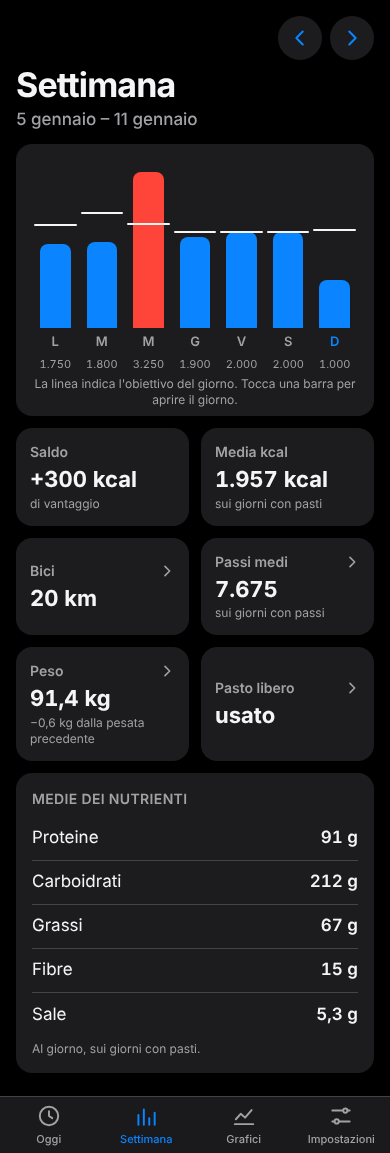
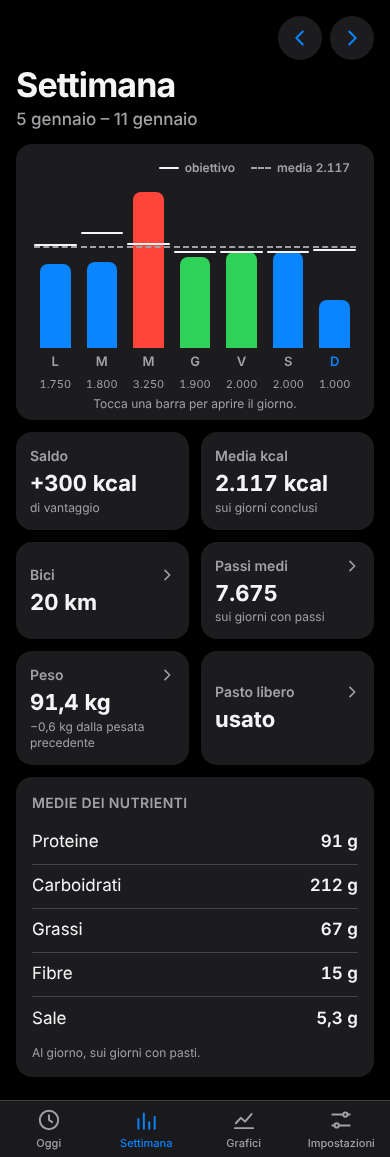
T5b.7 segno della variazione di peso (in attesa di revisione)
Claude-Session: https://claude.ai/code/session_01Q1wTxDLrvVU4hsBJyp9sCk

diff --git a/src/app/lib/week-weight.test.ts b/src/app/lib/week-weight.test.ts
@@ -1,5 +1,6 @@
 import { describe, expect, it } from "vitest";
-import { weekWeight } from "./week-weight";
+import { formatNumber, formatWeightDelta } from "./format";
+import { weekWeight, weightCard } from "./week-weight";
 
 const MON = "2026-01-05";
 const SUN = "2026-01-11";
@@ -71,5 +72,32 @@ describe("weekWeight", () => {
       expect(run([w("2026-01-06", 83)], { profileWeightKg: 86, targetWeightKg: 85 })?.tone).toBe("bad"); // da 1 a 2
       expect(run([w("2026-01-06", 84)], { profileWeightKg: 86, targetWeightKg: 85 })?.tone).toBe("neutral"); // da 1 a 1
     });
+  });
+});
+
+describe("scheda Peso: testo e colore della variazione (T5b.7)", () => {
+  const card = (kg: number, o: { profileWeightKg?: number; targetWeightKg?: number } = {}) =>
+    weightCard(run([w("2026-01-06", kg)], { profileWeightKg: 92, ...o }), (n) => formatNumber(n, 1), formatWeightDelta);
+
+  it("−0,04 → «0,0 kg», in grigio", () => {
+    expect(card(91.96, { targetWeightKg: 85 })).toMatchObject({ hint: "0,0 kg dal peso di partenza", tone: "neutral" });
+  });
+  it("−0,4, −1,2 e +0,3: sempre segno e un decimale", () => {
+    expect(card(91.6).hint).toBe("−0,4 kg dal peso di partenza");
+    expect(card(90.8).hint).toBe("−1,2 kg dal peso di partenza");
+    expect(card(92.3).hint).toBe("+0,3 kg dal peso di partenza");
+  });
+  it("con una pesata precedente il testo lo dice", () => {
+    const r = weightCard(run([w("2026-01-02", 93), w("2026-01-06", 92.6)]), (n) => formatNumber(n, 1), formatWeightDelta);
+    expect(r.hint).toBe("−0,4 kg dalla pesata precedente");
+  });
+  it("obiettivo più alto del peso attuale: la variazione positiva è verde, quella negativa rossa", () => {
+    expect(card(92.3, { targetWeightKg: 100 })).toMatchObject({ hint: "+0,3 kg dal peso di partenza", tone: "ok" });
+    expect(card(91.6, { targetWeightKg: 100 })).toMatchObject({ hint: "−0,4 kg dal peso di partenza", tone: "bad" });
+  });
+  it("obiettivo più basso: scendere verde, salire rosso; senza obiettivo grigio", () => {
+    expect(card(91.6, { targetWeightKg: 85 }).tone).toBe("ok");
+    expect(card(92.3, { targetWeightKg: 85 }).tone).toBe("bad");
+    expect(card(91.6).tone).toBe("neutral");
   });
 });

diff --git a/src/app/settimana-screen.tsx b/src/app/settimana-screen.tsx
@@ -9,7 +9,7 @@ import { Card } from "./components/card";
 import { ActivityWeekPanel, FreeMealPanel, WeightPanel } from "./components/week-panels";
 import { useDataStore } from "./data-provider";
 import { WeekChart } from "./components/week-chart";
-import { formatDayMonth, formatNumber, formatSigned } from "./lib/format";
+import { formatDayMonth, formatNumber, formatSigned, formatWeightDelta } from "./lib/format";
 import { useToday } from "./lib/use-today";
 import { useWeekData } from "./lib/use-week-data";
 import { buildWeekView } from "./lib/week-view";
@@ -80,7 +80,7 @@ export function SettimanaScreen() {
   const view = data ? buildWeekView({ date: monday, days: data.days, settings: data.settings, today }) : null;
   const s = view?.summary;
   const weight = data ? weekWeight({ monday, sunday, weighIns: data.weighIns, profileWeightKg: data.userSettings.weightKg, targetWeightKg: data.userSettings.targetWeightKg }) : null;
-  const card = weightCard(weight, (kg) => formatNumber(kg, 1), (kg) => formatSigned(kg, 1));
+  const card = weightCard(weight, (kg) => formatNumber(kg, 1), formatWeightDelta);
   const stats: StatProps[] = s
     ? [
         { label: "Saldo", value: s.balance === null ? dash : `${formatSigned(s.balance)} kcal`, hint: s.balance === null ? undefined : s.balance < 0 ? "da recuperare" : "di vantaggio" },

diff --git a/src/app/lib/format.test.ts b/src/app/lib/format.test.ts
@@ -1,5 +1,5 @@
 import { describe, expect, it } from "vitest";
-import { formatDateLong, formatDayMonth, formatNumber, formatSigned, formatWeekday } from "./format";
+import { formatDateLong, formatDayMonth, formatNumber, formatSigned, formatWeekday, formatWeightDelta } from "./format";
 
 describe("formatNumber", () => {
   it("separatore delle migliaia anche a 4 cifre e virgola decimale", () => {
@@ -32,5 +32,21 @@ describe("date", () => {
     expect(formatDayMonth("2026-01-08")).toBe("8 gennaio");
     expect(formatDateLong("2026-01-08")).toBe("Giovedì 8 gennaio");
     expect(formatDateLong("2026-03-01")).toBe("Domenica 1 marzo");
+  });
+});
+
+describe("formatWeightDelta (T5b.7)", () => {
+  it("sempre segno e un decimale, con il meno tipografico", () => {
+    expect(formatWeightDelta(-0.4)).toBe("−0,4");
+    expect(formatWeightDelta(-1.2)).toBe("−1,2");
+    expect(formatWeightDelta(0.3)).toBe("+0,3");
+    expect(formatWeightDelta(12)).toBe("+12,0");
+    expect(formatWeightDelta(-1234.5)).toBe("−1.234,5");
+  });
+  it("una differenza che arrotondata vale 0,0 si scrive «0,0», senza segno", () => {
+    expect(formatWeightDelta(0)).toBe("0,0");
+    expect(formatWeightDelta(-0.04)).toBe("0,0");
+    expect(formatWeightDelta(0.04)).toBe("0,0");
+    expect(formatWeightDelta(-0.05)).toBe("−0,1");
   });
 });

diff --git a/src/app/lib/format.ts b/src/app/lib/format.ts
@@ -25,6 +25,14 @@ export function formatSigned(n: number, decimals = 0): string {
   return n < 0 ? `−${text}` : `+${text}`;
 }
 
+/** Variazione di peso in kg: sempre il segno e un decimale, col meno tipografico ("−0,4", "+0,3"). Una differenza che arrotondata vale 0,0 si scrive "0,0". */
+export function formatWeightDelta(kg: number): string {
+  // Sempre un decimale (anche "12,0"), con il punto delle migliaia.
+  const text = new Intl.NumberFormat("it-IT", { useGrouping: "always", minimumFractionDigits: 1, maximumFractionDigits: 1 }).format(Math.abs(kg));
+  if (Number(text.replace(/\./g, "").replace(",", ".")) === 0) return "0,0";
+  return kg < 0 ? `−${text}` : `+${text}`;
+}
+
 function utcDate(date: DateKey): Date {
   const [y, m, d] = date.split("-").map(Number);
   return new Date(Date.UTC(y, m - 1, d));

diff --git a/docs/DIARIO.md b/docs/DIARIO.md
@@ -63,6 +63,7 @@ Una riga per task chiuso.
 - T5b.4 · fatto · `src/engine/coherence.ts` (`kcalFromMacros`, `needsKcalCheck`, costanti `kcalCheckShare` 0,20 e `kcalCheckMin` 40 in `defaults.ts`); casi T, U, V, soglie esatte, numeri a zero. Nella proposta il piatto segnalato ha «⚠ controlla» sulla riga e, aperto, la frase breve; nel piatto a mano stimato con l'AI la stessa frase sotto la nota. Non blocca, non cambia i numeri, si ricalcola a ogni ritocco. 4 scenari.
 - T5b.5 · fatto · preferiti (piatti e pasti) con `SwipeRow`: scorrendo a sinistra compare il cestino, che elimina subito senza conferma (`deleteFavorite`); tolta la modalità «Modifica» (con «Elimina» / «Elimina davvero»); il + e il tocco sulla riga aggiungono come prima. `npm run prova-scorrimento` ora prova anche i preferiti (20 controlli). Scenari `preferiti-modifica` e `preferiti-elimina` sostituiti da 3 scenari di scorrimento.
 - T5b.6 · fatto · media kcal della settimana sui giorni conclusi (`weekSummary` esclude il giorno `today` dalla media; senza `today` non esclude nessuno): test esistenti della media aggiornati (si passa un `today` dopo la settimana), nuovi casi W, X, Y; la scheda dice «sui giorni conclusi»; sul grafico linea tratteggiata grigia alla media (`avgRatio`, stessa scala delle barre) e legenda sopra le barre («obiettivo», «media 2.040»). 4 scenari (sopra, sotto, vicina, assente).
+- T5b.7 · in attesa di revisione · variazione di peso sempre con segno e un decimale (`formatWeightDelta`: «−0,4 kg», «+0,3 kg», «0,0 kg» in grigio quando arrotondata vale 0,0), usata nella scheda Peso della Settimana (l'unico punto dove oggi si mostra la variazione); colori già corretti anche per chi vuole salire (verificati con test). 2 scenari nuovi, descrizioni aggiornate.
 
 ## Decisioni da confermare
 
@@ -156,6 +157,7 @@ Una riga per task chiuso.
 - Controllo di coerenza (T5b.4): soglie esatte non segnalate (serve superarle entrambe). Nel piatto a mano il controllo compare solo dopo «Stima con AI» (non sui numeri scritti a mano) e vale sui numeri correnti del modulo; se il modello divide il piatto in più piatti il controllo è sulla somma. La frase è la stessa nella proposta e nel piatto a mano.
 - Preferiti (T5b.5): nei preferiti il cestino è solo nello scorrimento (a differenza dei pannelli della Settimana non c'è un cestino sempre visibile), come da brief.
 - Media (T5b.6): l'etichetta «media 2.040» sta in una legenda sopra le barre (con «obiettivo»), non accanto alla linea: accanto avrebbe ristretto le barre sotto i 44 px o coperto la domenica. Solo la media delle kcal esclude oggi; le medie dei nutrienti restano su tutti i giorni con pasti.
+- Variazione di peso (T5b.7): `formatSigned` (usato per kcal) resta com'è; per i kg c'è `formatWeightDelta`. Nei Grafici (fase 6) la variazione dovrà usare lo stesso formato.
 
 ## Non verificato
 
